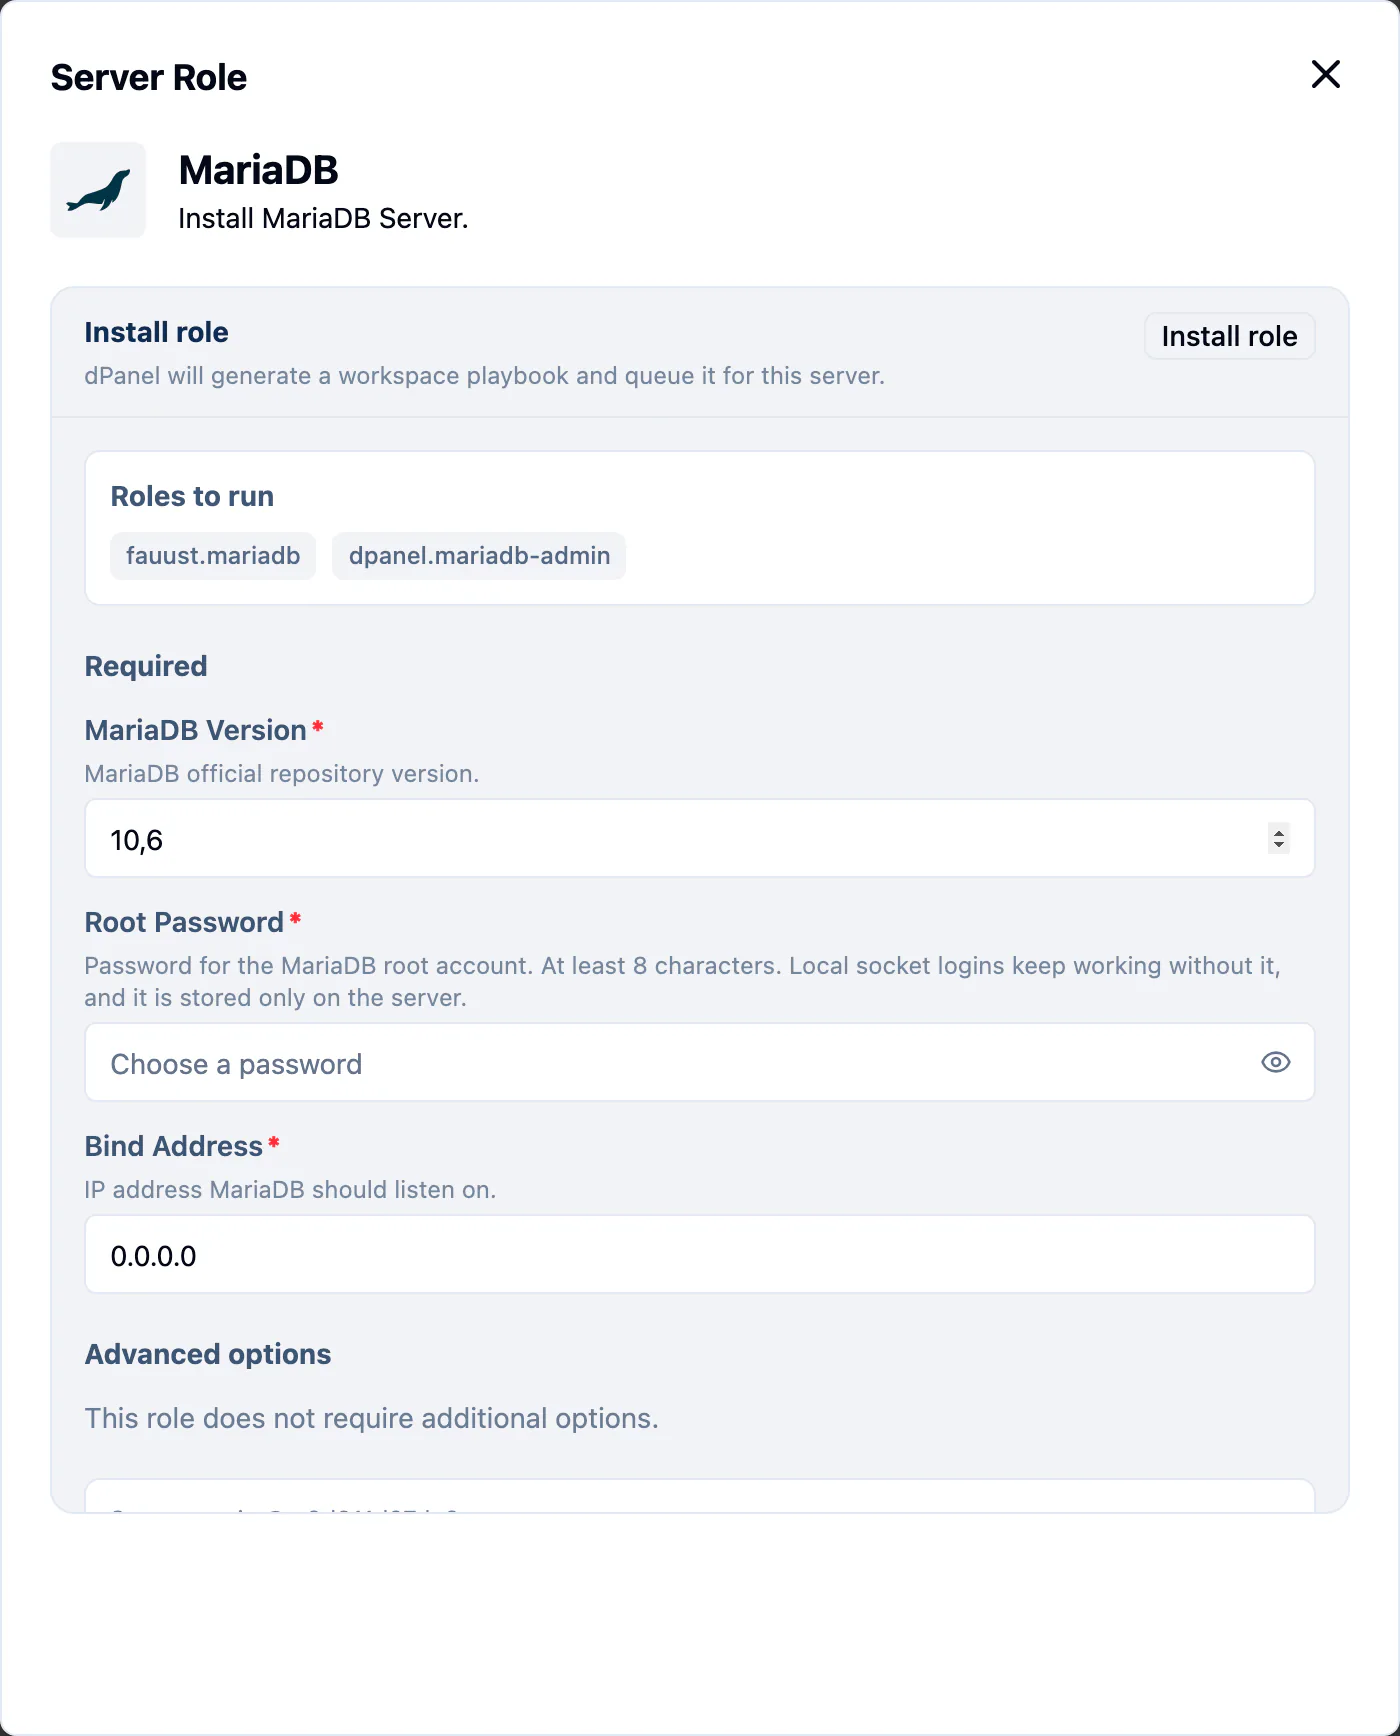
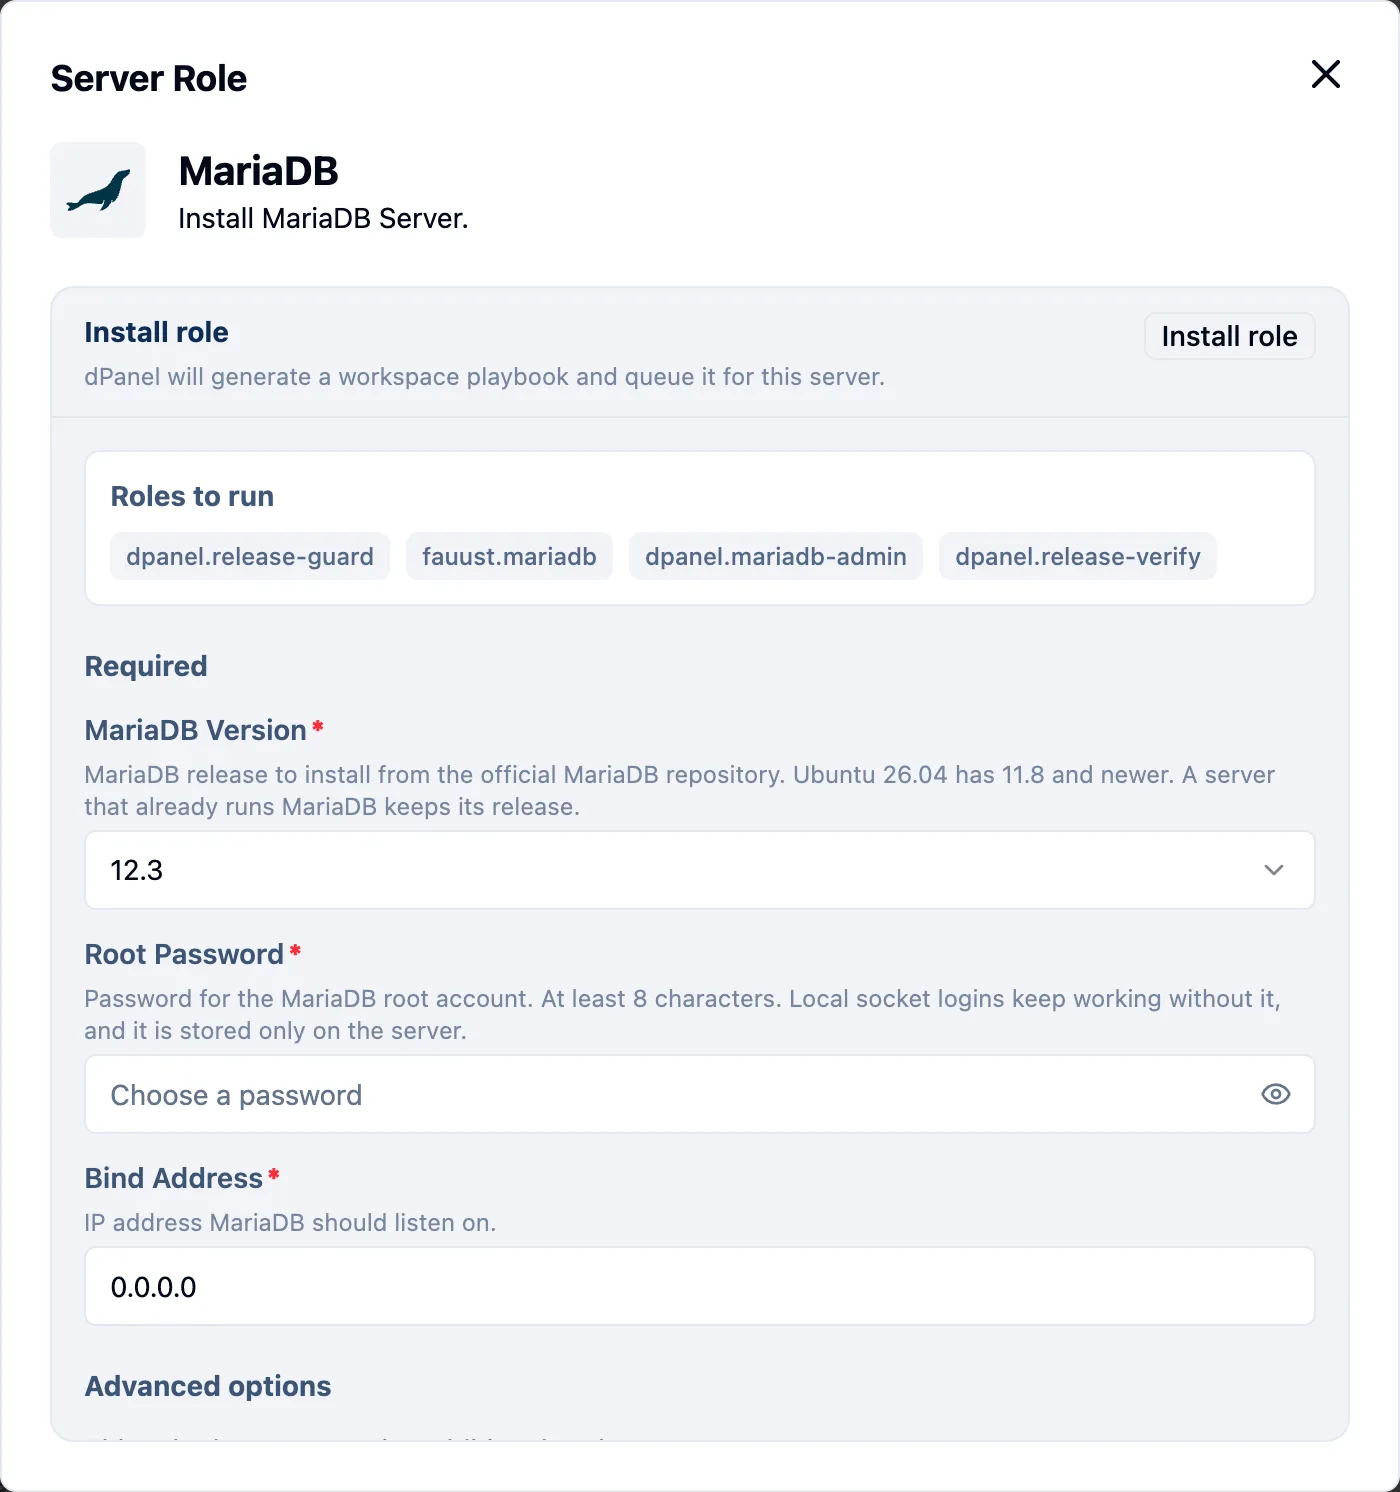
fix(i18n): translate the runtime value toggle and sign-in errors, refresh doc screenshots (#252)
Runtime edit panel value toggle and the API's fixed sign-in/sign-up messages now come from the dictionaries (en + id); Indonesian docs quote the Indonesian UI; retaken private-overview, MariaDB install form, private-modules-installed and app-edit screenshots; new On servers screenshot with the Runtime button.

diff --git a/src/features/application-run-edit-sidepanel/view/Forms/index.tsx b/src/features/application-run-edit-sidepanel/view/Forms/index.tsx
@@ -3,6 +3,7 @@ import { useState } from 'react';
 import { EyeIcon, EyeOffIcon, PlusIcon, Trash2Icon } from 'lucide-react';
 import { useFieldArray, useWatch } from 'react-hook-form';
 
+import { useDevetekTranslations } from '@/services/i18n';
 import { useToaster } from '@/services/toaster';
 
 import {
@@ -61,6 +62,7 @@ function RunCommandSection() {
  * so they are saved as typed.
  */
 function useRevealValues() {
+  const t = useDevetekTranslations('sidepanel.applicationRunEdit.envValues');
   const { form, props } = useApplicationRunEditModel();
   const [openToaster] = useToaster();
   const [isRevealing, setIsRevealing] = useState(false);
@@ -96,7 +98,7 @@ function useRevealValues() {
       if (response.$status !== 'success') {
         openToaster({
           variant: 'error',
-          title: 'Could not show the values',
+          title: t('revealFailed'),
           message: getApiErrorDetail(response.error),
         });
         return;
@@ -112,6 +114,7 @@ function useRevealValues() {
 }
 
 function RunEnvsSection() {
+  const t = useDevetekTranslations('sidepanel.applicationRunEdit.envValues');
   const { form } = useApplicationRunEditModel();
   const { hasMasked, isShown, isRevealing, reveal, hide } = useRevealValues();
 
@@ -130,11 +133,7 @@ function RunEnvsSection() {
 
       {(hasMasked || isShown) && (
         <div className="flex items-center justify-between gap-2 rounded-md border bg-muted/40 px-3 py-2 text-xs text-muted-foreground">
-          <span>
-            {isShown
-              ? 'Values are shown. Hide them before sharing your screen.'
-              : 'Values are hidden. Unchanged ones keep their stored value.'}
-          </span>
+          <span>{isShown ? t('shownNote') : t('hiddenNote')}</span>
           <Button
             type="button"
             variant="outline"
@@ -148,7 +147,7 @@ function RunEnvsSection() {
             ) : (
               <EyeIcon className="size-3" />
             )}
-            {isShown ? 'Hide values' : isRevealing ? 'Showing…' : 'Show values'}
+            {isShown ? t('hide') : isRevealing ? t('revealing') : t('reveal')}
           </Button>
         </div>
       )}

diff --git a/src/features/auth-toolkit/-lib/public-auth-error.test.ts b/src/features/auth-toolkit/-lib/public-auth-error.test.ts
@@ -1,0 +1,44 @@
+import { describe, expect, it } from 'vitest';
+
+import dictEn from '@/services/i18n/config/dict-en.json';
+import dictId from '@/services/i18n/config/dict-id.json';
+
+import { publicAuthErrorKey } from './public-auth-error';
+
+describe('publicAuthErrorKey', () => {
+  it.each([
+    [
+      'Wrong username or password. You can also sign in with your email address.',
+      'loginInvalid',
+    ],
+    ['That username is already taken. Choose another one.', 'usernameTaken'],
+    [
+      '  Signing in is not available right now. Try again in a minute. ',
+      'authUnavailable',
+    ],
+  ])('maps %j to %s', (detail, key) => {
+    expect(publicAuthErrorKey(detail)).toBe(key);
+  });
+
+  it.each([undefined, '', 'Something else went wrong', 'constructor'])(
+    'leaves %j to be shown as sent',
+    (detail) => {
+      expect(publicAuthErrorKey(detail)).toBeUndefined();
+    },
+  );
+
+  it('has an English and an Indonesian text for every key', () => {
+    const keys = [
+      'loginInvalid',
+      'signUpConflict',
+      'usernameTaken',
+      'authUnavailable',
+      'signUpUnavailable',
+    ];
+    for (const dict of [dictEn, dictId]) {
+      const entries = dict.toaster.authPublic as Record<string, string>;
+      expect(Object.keys(entries).sort()).toEqual([...keys].sort());
+      for (const key of keys) expect(entries[key]).toBeTruthy();
+    }
+  });
+});

diff --git a/src/features/auth-toolkit/-lib/public-auth-error.ts b/src/features/auth-toolkit/-lib/public-auth-error.ts
@@ -1,0 +1,32 @@
+/**
+ * The sign-in and sign-up failures the API reports, keyed by their exact
+ * English text (`internal/delivery/http/auth_public_errors.go` in the
+ * backend). The API answers in English only, so the forms show the matching
+ * dictionary entry under `toaster.authPublic` instead; any other text is
+ * shown as the API sent it.
+ */
+const PUBLIC_AUTH_ERRORS = {
+  'Wrong username or password. You can also sign in with your email address.':
+    'loginInvalid',
+  'An account with this email address or username already exists. Sign in instead, or choose another username.':
+    'signUpConflict',
+  'That username is already taken. Choose another one.': 'usernameTaken',
+  'Signing in is not available right now. Try again in a minute.':
+    'authUnavailable',
+  'Creating an account is not available right now. Try again in a minute.':
+    'signUpUnavailable',
+} as const;
+
+export type PublicAuthErrorKey =
+  (typeof PUBLIC_AUTH_ERRORS)[keyof typeof PUBLIC_AUTH_ERRORS];
+
+/** The dictionary key for a known API auth message, if it is one. */
+export function publicAuthErrorKey(
+  detail: string | undefined,
+): PublicAuthErrorKey | undefined {
+  if (!detail) return undefined;
+  const text = detail.trim();
+  return Object.hasOwn(PUBLIC_AUTH_ERRORS, text)
+    ? PUBLIC_AUTH_ERRORS[text as keyof typeof PUBLIC_AUTH_ERRORS]
+    : undefined;
+}

diff --git a/src/features/auth-toolkit/login-widget/-usecase/use-login.ts b/src/features/auth-toolkit/login-widget/-usecase/use-login.ts
@@ -4,14 +4,15 @@ import { useDevetekTranslations } from '@/services/i18n';
 import { useToaster } from '@/services/toaster';
 
 import { ApiUser } from '@/shared/api';
-import { getApiErrorDetail } from '@/shared/libs/api-client/lib/error';
 import useHandler from '@/shared/libs/react-hooks/useHandler';
 
 import { readReturnUrl } from '../-lib/return-url';
 import type { LoginTraditional } from '../-rules/login';
+import { useAuthErrorMessage } from '../../-usecase/use-auth-error-message';
 
 export default function useLoginUsecase() {
   const t = useDevetekTranslations();
+  const localizedAuthError = useAuthErrorMessage();
 
   const [pushToast] = useToaster();
 
@@ -62,7 +63,7 @@ export default function useLoginUsecase() {
         title: t('toaster.loginByEmail.error', {
           email: username,
         }),
-        message: getApiErrorDetail(response.error),
+        message: localizedAuthError(response.error),
       });
 
       throw response.error;

diff --git a/src/features/auth-toolkit/sign-up-sidepanel/usecase/use-submit.ts b/src/features/auth-toolkit/sign-up-sidepanel/usecase/use-submit.ts
@@ -7,8 +7,8 @@ import { useSidepanelEmit } from '@/services/sidepanel/model/event';
 import { useToaster } from '@/services/toaster';
 
 import { ApiUser } from '@/shared/api';
-import { getApiErrorDetail } from '@/shared/libs/api-client/lib/error';
 
+import { useAuthErrorMessage } from '../../-usecase/use-auth-error-message';
 import type { SignUpForm } from '../rules/login';
 
 export default function useSubmitUsecase() {
@@ -17,6 +17,7 @@ export default function useSubmitUsecase() {
   const sidepanelEmit = useSidepanelEmit();
 
   const t = useDevetekTranslations();
+  const localizedAuthError = useAuthErrorMessage();
 
   const [openToaster] = useToaster();
 
@@ -46,7 +47,7 @@ export default function useSubmitUsecase() {
         title: t('toaster.signUp.error', {
           email,
         }),
-        message: getApiErrorDetail(response.error),
+        message: localizedAuthError(response.error),
       });
       return;
     }

diff --git a/src/features/auth-toolkit/-usecase/use-auth-error-message.ts b/src/features/auth-toolkit/-usecase/use-auth-error-message.ts
@@ -1,0 +1,19 @@
+import { useDevetekTranslations } from '@/services/i18n';
+
+import { getApiErrorDetail } from '@/shared/libs/api-client/lib/error';
+
+import { publicAuthErrorKey } from '../-lib/public-auth-error';
+
+/**
+ * Turns a failed sign-in or sign-up response into the text for the toast:
+ * a known API message in the reader's language, anything else as sent.
+ */
+export function useAuthErrorMessage() {
+  const t = useDevetekTranslations('toaster.authPublic');
+
+  return (error: unknown) => {
+    const detail = getApiErrorDetail(error);
+    const key = publicAuthErrorKey(detail);
+    return key ? t(key) : detail;
+  };
+}

diff --git a/src/documentations/id/applications/environment-variables.md b/src/documentations/id/applications/environment-variables.md
@@ -48,11 +48,11 @@ Anda juga bisa meminta **Ask dPanel** mengerjakannya untuk Anda; lihat [Kumpulan
 
 dPanel menyembunyikan setiap nilai setelah disimpan: aplikasi web dan API menampilkan `••••••••` sebagai gantinya, dan `dnocs` hanya menampilkan namanya. Kalau Anda perlu melihat nilainya lagi, Anda bisa menampilkannya atas permintaan.
 
-1. Buka **Pengaturan**, lalu tekan **Ubah** di samping **Variabel lingkungan** pada bagian **Jalan**. Panelnya bertuliskan **Values are hidden. Unchanged ones keep their stored value.**
-2. Tekan **Show values**. Nilai aslinya mengisi kolom yang disembunyikan; apa pun yang sudah Anda ketik tetap seperti adanya.
-3. Setelah selesai, tekan **Hide values**, terutama sebelum Anda membagikan layar.
+1. Buka **Pengaturan**, lalu tekan **Ubah** di samping **Variabel lingkungan** pada bagian **Jalan**. Panelnya bertuliskan **Nilai disembunyikan. Nilai yang tidak diubah tetap memakai nilai tersimpan.**
+2. Tekan **Tampilkan nilai**. Nilai aslinya mengisi kolom yang disembunyikan; apa pun yang sudah Anda ketik tetap seperti adanya.
+3. Setelah selesai, tekan **Sembunyikan nilai**, terutama sebelum Anda membagikan layar.
 
-Nilai build-time ditampilkan dengan cara yang sama di **Ubah pengaturan**, pada langkah **Environment**, lewat tombol **Tampilkan nilai** dan **Sembunyikan nilai**.
+Nilai build-time ditampilkan dengan cara yang sama di **Ubah pengaturan**, pada langkah **Environment**, lewat tombol yang sama.
 
 Hanya orang yang boleh mengubah aplikasi yang bisa menampilkan nilai; orang yang hanya bisa melihat aplikasi tidak bisa. Setiap kali nilai ditampilkan, dPanel mencatat siapa yang melakukannya dan untuk aplikasi mana, tanpa pernah mencatat nilainya.
 
@@ -98,7 +98,7 @@ Ya. Layanan yang berjalan tetap memakai nilai saat ia dimulai, dan **Restart** t
 
 ### Bisakah saya melihat rahasia setelah disimpan?
 
-Bisa, jika Anda boleh mengubah aplikasinya. Tekan **Show values** di panel **Jalan**, atau **Tampilkan nilai** di **Ubah pengaturan** untuk nilai build-time, atau jalankan `dnocs application env list --id <ID aplikasi> --show-values`. Setiap kali dicatat. Lihat [Melihat nilai yang tersimpan](#melihat-nilai-yang-tersimpan).
+Bisa, jika Anda boleh mengubah aplikasinya. Tekan **Tampilkan nilai** di panel **Jalan**, atau di langkah **Environment** pada **Ubah pengaturan** untuk nilai build-time, atau jalankan `dnocs application env list --id <ID aplikasi> --show-values`. Setiap kali dicatat. Lihat [Melihat nilai yang tersimpan](#melihat-nilai-yang-tersimpan).
 
 ### Password database sebaiknya variabel build-time atau runtime?
 

diff --git a/src/documentations/id/getting-started/sign-in.md b/src/documentations/id/getting-started/sign-in.md
@@ -28,7 +28,7 @@ Masuk lewat Google tidak memerlukan password tersendiri. Cocok kalau tim Anda su
 2. Isi email, username, password, dan ulangi password-nya.
 3. Tekan **Daftar**. dPanel mendaftarkan akun Anda lalu mengarahkan Anda begitu siap.
 
-Username yang Anda ketik adalah username untuk masuk, dalam huruf kecil. Kalau sudah dipakai orang lain, dPanel menampilkan **That username is already taken. Choose another one.** (username itu sudah dipakai; pilih yang lain).
+Username yang Anda ketik adalah username untuk masuk, dalam huruf kecil. Kalau sudah dipakai orang lain, dPanel menampilkan **Username itu sudah dipakai. Pilih yang lain.**
 
 ## Lupa password
 
@@ -84,9 +84,9 @@ Bisa. Buat akun lewat **Daftar**, lalu masuk dengan username dan password.
 
 `dnocs auth login` memerlukan username dan password. Atur password di **Edit profile** (password lama tidak ditanyakan), lalu masuk ke dnocs dengan username yang tertera di profil Anda. Atau buat token [akun layanan](../teams/service-accounts.md) dan jalankan dnocs dengan `DNOCS_TOKEN`.
 
-### Saat masuk muncul "Wrong username or password"
+### Saat masuk muncul "Username atau password salah"
 
-Periksa keduanya, atau masuk dengan alamat email sebagai pengganti username. Demi keamanan, dPanel menampilkan pesan yang sama baik akunnya tidak ada maupun password-nya salah. **Signing in is not available right now. Try again in a minute.** berarti masalahnya ada di sisi dPanel; tunggu sebentar lalu coba lagi.
+Periksa keduanya, atau masuk dengan alamat email sebagai pengganti username. Demi keamanan, dPanel menampilkan pesan yang sama baik akunnya tidak ada maupun password-nya salah. **Saat ini belum bisa masuk. Coba lagi sebentar lagi.** berarti masalahnya ada di sisi dPanel; tunggu sebentar lalu coba lagi.
 
 ### Bagaimana mengatur ulang password yang terlupa?
 

diff --git a/src/documentations/id/applications/update-or-delete.md b/src/documentations/id/applications/update-or-delete.md
@@ -34,7 +34,7 @@ Setiap item yang punya tombol **Ubah** membuka panel khusus untuk bagian itu saj
 
 Tekan **Simpan** di panel, atau **Batal** untuk menutupnya; jika ada perubahan yang belum disimpan, dPanel meminta konfirmasi lebih dulu. Perubahan berlaku mulai rilis berikutnya, jadi rilis lagi dengan **Bangun dan rilis** atau **Rilis ulang**.
 
-Nilai variabel disembunyikan di panel-panel ini. Biarkan nilai yang tersembunyi apa adanya untuk mempertahankannya, atau tekan **Show values** di **Edit Runtime Configuration** untuk melihat nilai runtime. Lihat [Variabel environment](./environment-variables.md#melihat-nilai-yang-tersimpan).
+Nilai variabel disembunyikan di panel-panel ini. Biarkan nilai yang tersembunyi apa adanya untuk mempertahankannya, atau tekan **Tampilkan nilai** di **Edit Runtime Configuration** untuk melihat nilai runtime. Lihat [Variabel environment](./environment-variables.md#melihat-nilai-yang-tersimpan).
 
 ## Pengaturan yang tetap
 
@@ -51,7 +51,7 @@ Untuk memakai nilai lain, buat aplikasi baru, rilis, arahkan load balancer Anda 
 3. Di **Pratinjau**, centang **Jalankan playbook bootstrap** jika Anda mengubah modul atau dependency server perlu dipasang ulang.
 4. Tekan **Simpan perubahan**.
 
-![Formulir Update Aplikasi yang dibuka dari Ubah pengaturan](../../assets/applications/app-edit.webp)
+![Formulir Update Aplikasi di langkah Environment: catatan bahwa nilai disembunyikan dengan tombol Show values, variabel build-time, dan variabel runtime yang nilainya disamarkan](../../assets/applications/app-edit.webp 'Dibuka dari Ubah pengaturan. Nilai tersembunyi yang tidak diubah tetap memakai nilai tersimpan.')
 
 dPanel memperbarui definisi aplikasi (deskripsi tersimpan tentang cara membangun dan menjalankannya) dan mengirim input playbook untuknya.
 

diff --git a/src/documentations/id/servers/install-software.md b/src/documentations/id/servers/install-software.md
@@ -51,7 +51,7 @@ Di server yang sudah memiliki bahasa sebelum perubahan ini, versi-versi tersebut
 2. Formulirnya menampilkan role yang akan dijalankan dan hanya menanyakan hal yang tidak bisa diputuskan sendiri. Untuk MariaDB: **MariaDB Version**, **Root Password**, dan **Bind Address**. Atur **Bind Address** ke `127.0.0.1` kecuali ada mesin lain yang harus terhubung langsung: nilai bawaannya, `0.0.0.0`, membuat MariaDB mendengarkan di semua alamat jaringan, dan di DigitalOcean dan IDCloudHost tidak ada yang memblokir port 3306 sampai Anda menambahkan firewall.
 3. Tekan **Install role**, lalu konfirmasi.
 
-![Formulir pemasangan MariaDB, dengan versi, kata sandi root, dan bind address](../../assets/servers/server-module-install-form.webp)
+![Formulir pemasangan MariaDB: role yang dijalankan, termasuk role release-guard dan release-verify, versi 12.3, kata sandi root, dan bind address](../../assets/servers/server-module-install-form.webp)
 
 :::warning[Tentukan kata sandinya sendiri]
 Kata sandi root wajib diisi, minimal 8 karakter. Tidak ada nilai bawaan, karena basis data dengan kata sandi bawaan yang sudah tersebar bisa dimasuki siapa saja. dPanel hanya menyimpannya di server dan tidak menampilkannya lagi, jadi simpan salinannya di tempat yang aman.

diff --git a/src/documentations/en/servers/install-software.md b/src/documentations/en/servers/install-software.md
@@ -51,7 +51,7 @@ On a server that had languages before this change, those versions show a **Previ
 2. The form lists the **Roles to run** and asks only for what it can't decide for you. For MariaDB that is **MariaDB Version**, **Root Password** and **Bind Address**. Set **Bind Address** to `127.0.0.1` unless another machine must connect directly: the default, `0.0.0.0`, makes MariaDB listen on every network address, and on DigitalOcean and IDCloudHost nothing blocks port 3306 until you add a firewall.
 3. Press **Install role** and confirm.
 
-![The MariaDB install form, with version, root password and bind address](../../assets/servers/server-module-install-form.webp)
+![The MariaDB install form: the roles to run, including the release guard and verify roles, version 12.3, root password and bind address](../../assets/servers/server-module-install-form.webp)
 
 :::warning[Choose the password yourself]
 The root password is required and must be at least 8 characters. There is no default, because a database installed with a published default password is open to anyone who knows it. dPanel stores it only on the server and never shows it again, so keep your own copy somewhere safe.

diff --git a/src/documentations/en/servers/register-a-private-machine.md b/src/documentations/en/servers/register-a-private-machine.md
@@ -114,7 +114,7 @@ To connect over SSH instead, see [Connect your own server over SSH](./connect-yo
 
 Open the server. It has the same tabs as any other server: live usage, modules, services, users, network, files, logs and settings. The details say how dPanel reaches it: **Local address** (its address on your own network), **Connects from** (the public address your network uses to reach the internet, or **Unknown: the agent connects from a private network**) and **Connection**: **Through the dPanel agent (no public IP or SSH)**, instead of an SSH login.
 
-![The home-server page: live CPU, memory and disk usage, counts of applications, databases and modules, and details with Local address 172.17.0.2, Connection through the dPanel agent and the agent version](../../assets/servers/private-overview.webp)
+![The home-server page: live CPU, memory and disk usage, counts of applications, databases and modules, and details with Local address 172.17.0.2, Connects from, Connection through the dPanel agent and the agent version](../../assets/servers/private-overview.webp 'The public address under Connects from is blurred here.')
 
 ## Step 3: Install a database or other software
 
